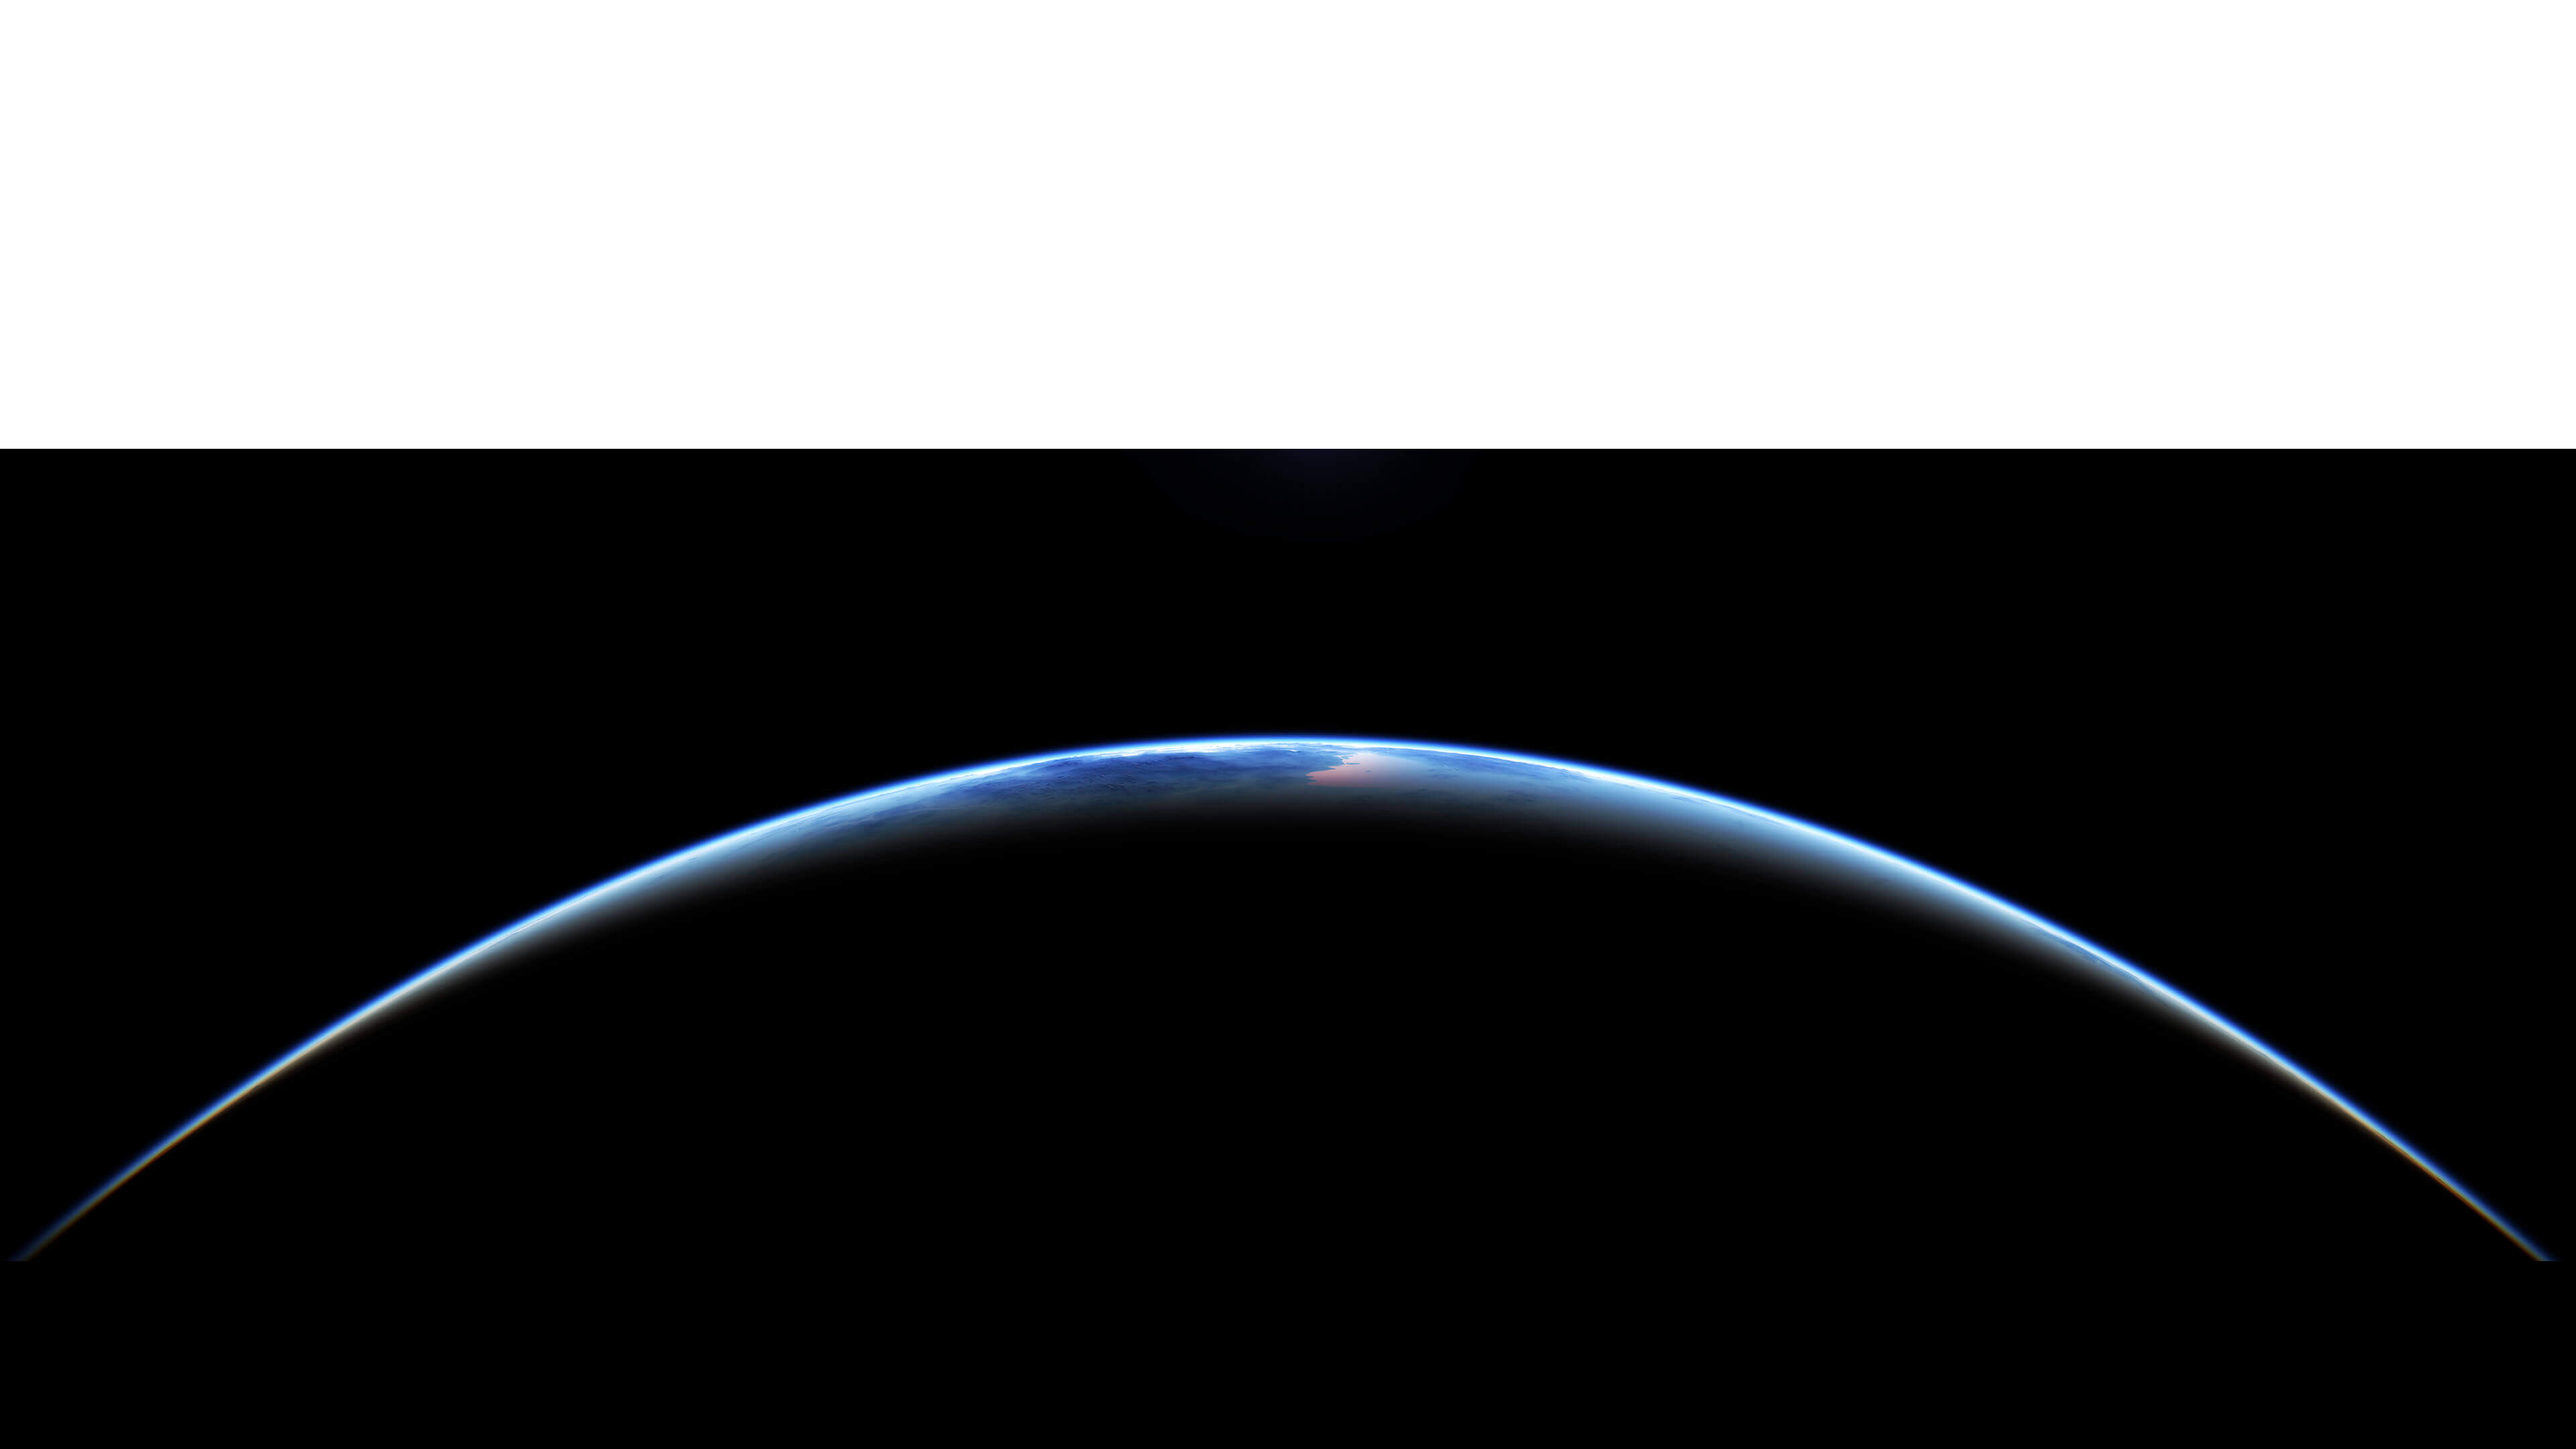
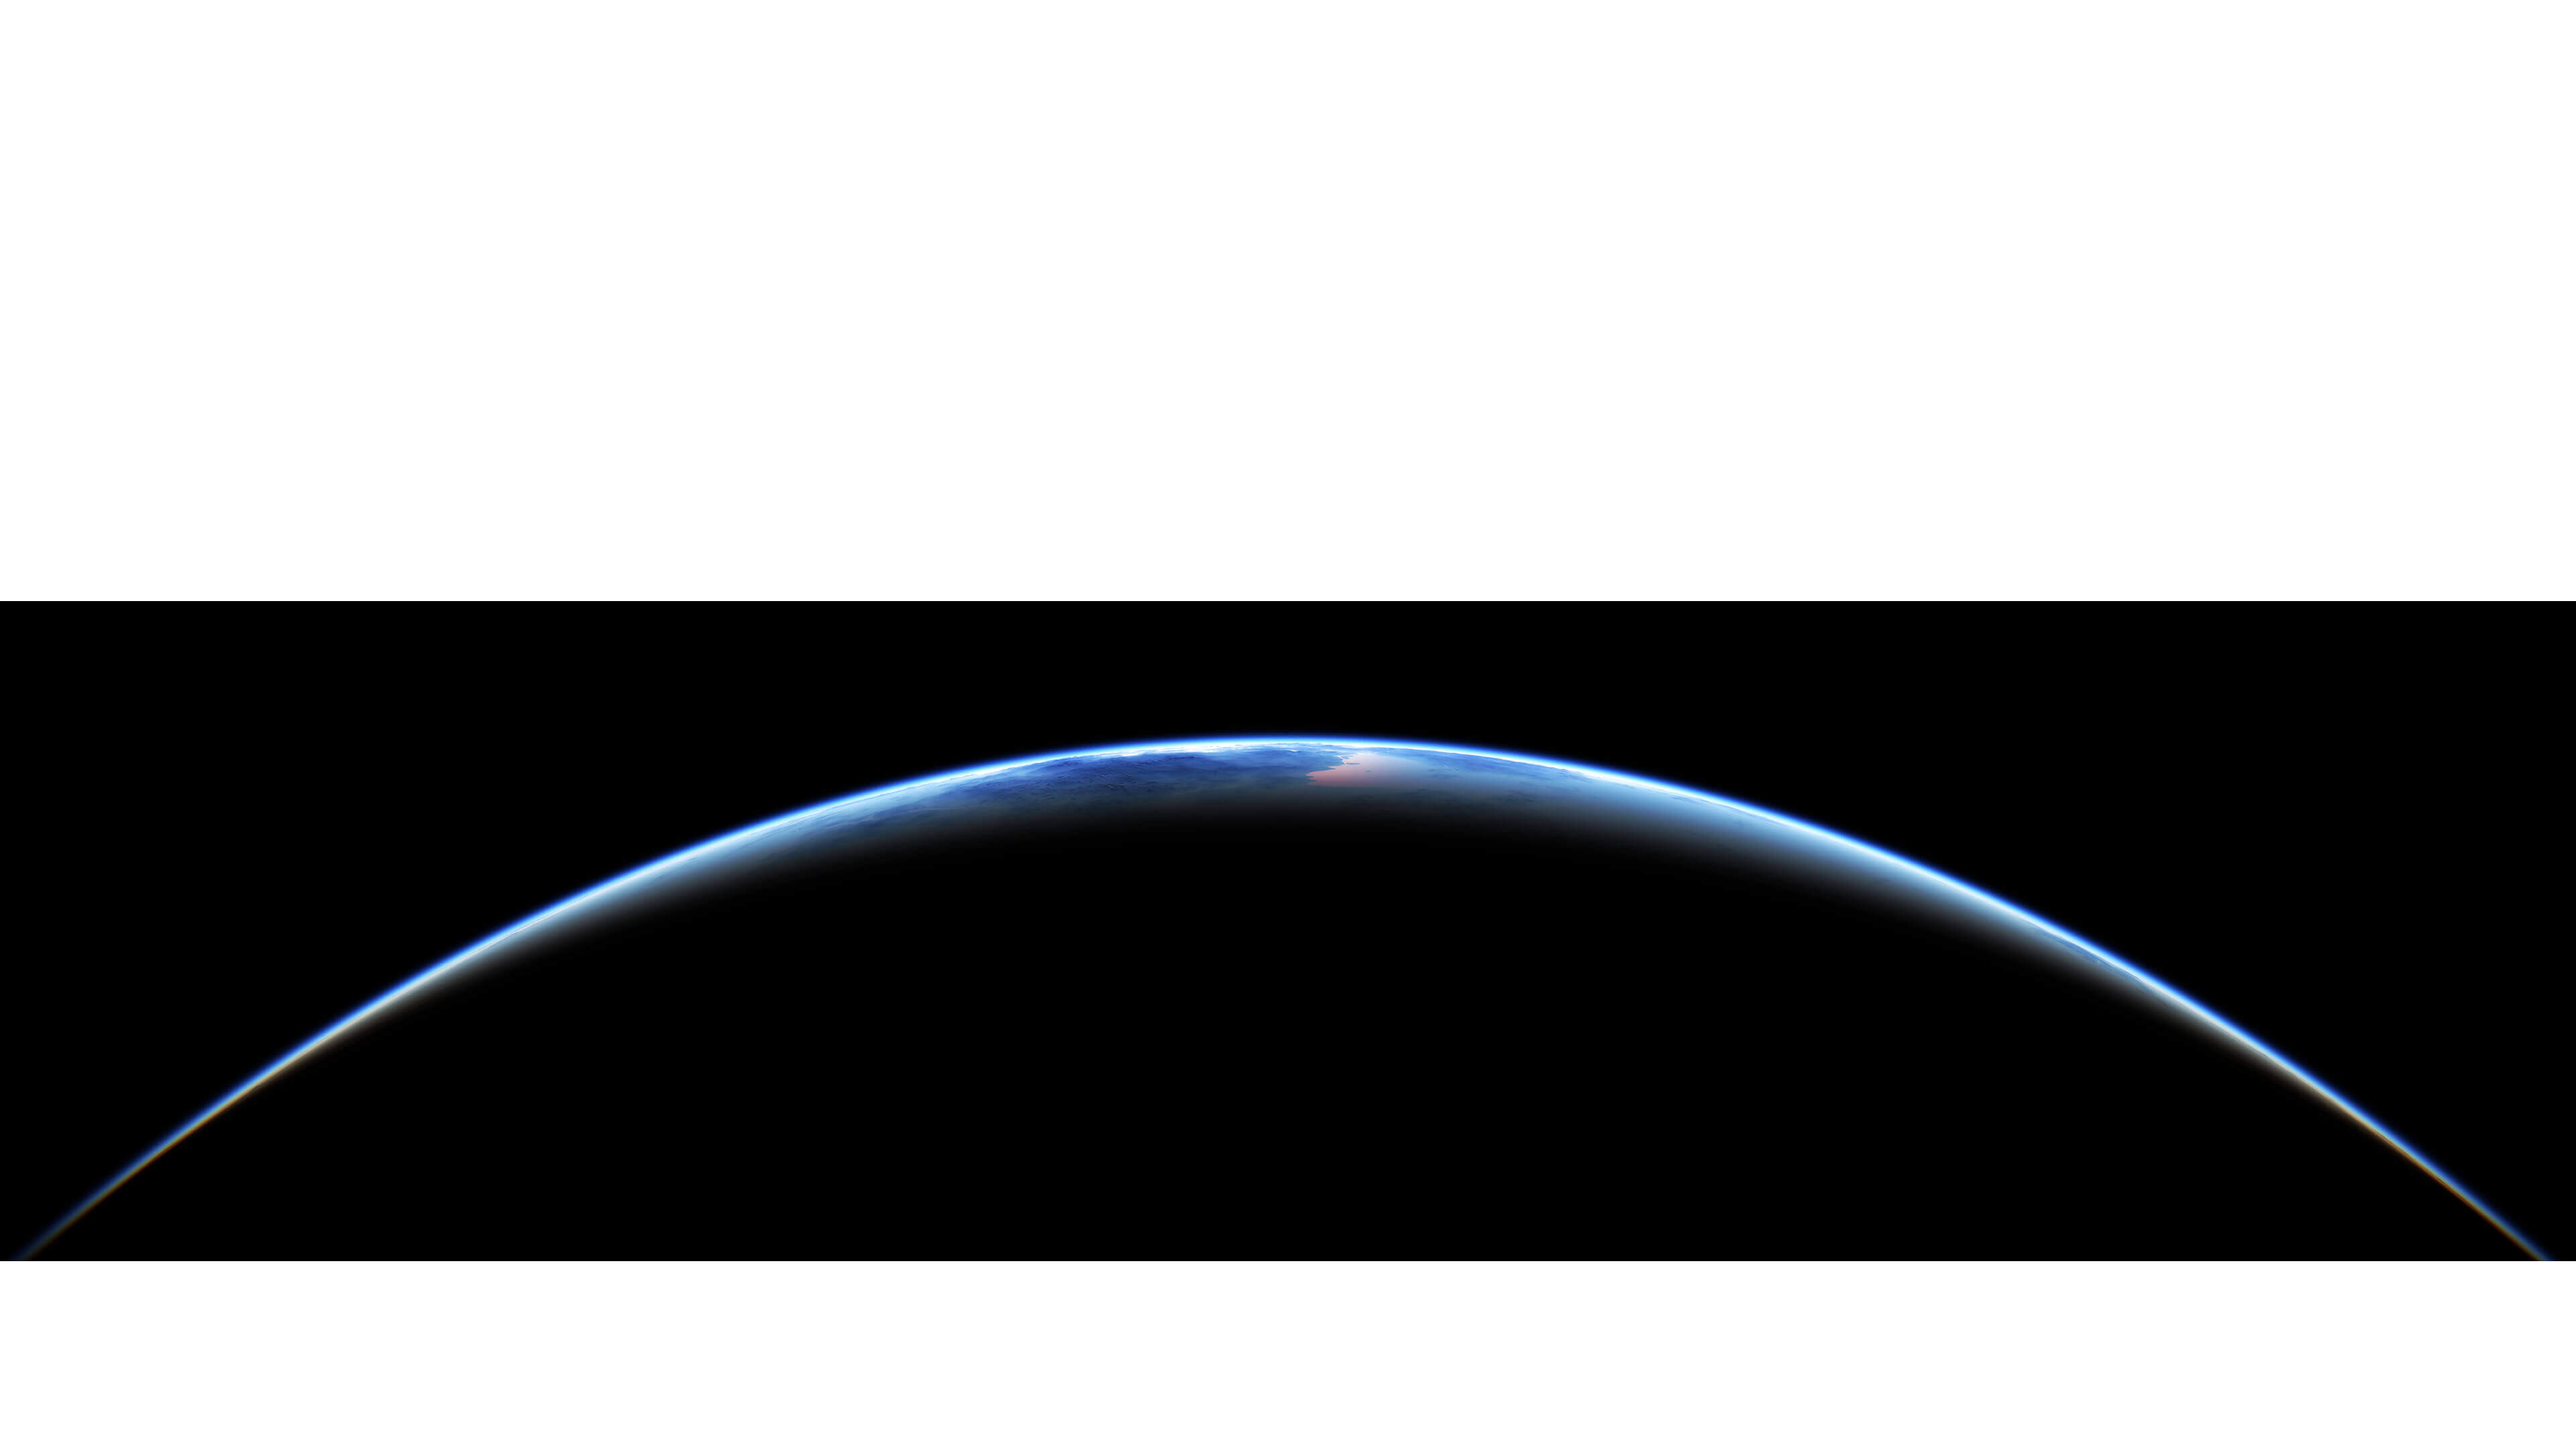
simplified hero component and informatoin comopnent + updated educationContext + updated earth image

Changed region(s): [[0.0, 0.8685, 1.0, 1.0], [0.0, 0.3102, 1.0, 0.4343]]

diff --git a/src/app/components/Information.tsx b/src/app/components/Information.tsx
@@ -1,122 +1,25 @@
 import React, { useEffect } from "react";
 import useEducation from "@/context/educationContext";
-import { informationByLevel } from "@/data";
-import { EducationInfo } from "@/data/types";
-import Image from "next/image"; // Import Image from Next.js
-import Xarrow from "react-xarrows"; // Import Xarrow
+
+import Primary from "./Information/Primary";
+import UpperSecondary from "./Information/UpperSecondary";
+import LowerSecondary from "./Information/LowerSecondary";
 
 const Information = () => {
   const { educationLevel, setEducationLevel } = useEducation();
 
-  const removeSpaces = (str: string) => {
-    return str.replace(/\s+/g, "");
-  };
-
-  const addSpaces = (str: string): string => {
-    return str.replace(/([a-z])([A-Z])/g, "$1 $2");
-  };
-
   useEffect(() => {
-    setEducationLevel(removeSpaces(educationLevel));
+    setEducationLevel(educationLevel);
   }, [educationLevel, setEducationLevel]);
 
-  const selectedInfo: EducationInfo | undefined =
-    informationByLevel[educationLevel] || undefined;
-
   return (
-    <div className="w-full h-full flex flex-col justify-center items-center mt-72">
-      {educationLevel ? (
-        <>
-          <h2 className="text-3xl font-bold flex-col flex justify-center items-center">
-            <span className="block">For {addSpaces(educationLevel)}</span>
-            <span className="block">Students</span>
-          </h2>
-          <div className="w-full flex justify-center items-center mt-4 flex-row gap-10 p-10 max-w-[1000px]">
-            <div
-              id="box1"
-              className="shadow-2xl shadow-zinc-700 rounded-xl text-sm p-8 flex flex-col gap-4 bg-zinc-900"
-            >
-              <p className="font-medium">{selectedInfo?.info1}</p>
-              <p className="font-light">
-                Lorem ipsum dolor sit amet consectetur adipisicing elit. Maxime
-                mollitia, molestiae quas vel sint commodi repudiandae
-                consequuntur voluptatum laborum numquam blanditiis harum
-                quisquam eius sed odit fugiat iusto fuga praesentium optio,
-                eaque rerum!
-              </p>
-            </div>
-            {selectedInfo?.firstimage && (
-              <Image
-                src={selectedInfo.firstimage.src}
-                alt="First Image"
-                width={300}
-                height={300}
-              />
-            )}
-          </div>
-          <div className="w-3/4 mx-auto flex justify-center mt-4 items-center flex-row gap-10 px-10 max-w-[750px]">
-            <div
-              id="box2"
-              className="shadow-2xl shadow-zinc-700 rounded-xl text-sm p-8 flex bg-zinc-900 flex-col gap-4"
-            >
-              <p className="font-medium">{selectedInfo?.info2}</p>
-              <p className="font-light">
-                Lorem ipsum dolor sit amet consectetur adipisicing elit. Maxime
-                mollitia, molestiae quas vel sint commodi repudiandae
-                consequuntur voluptatum laborum numquam blanditiis harum
-                quisquam eius sed odit fugiat iusto fuga praesentium optio,
-                eaque rerum!
-              </p>
-            </div>
-          </div>
-          <div className="w-full flex justify-center items-center mt-4 flex-row gap-10 p-10 max-w-[1000px]">
-            {selectedInfo?.secondimage && (
-              <Image
-                src={selectedInfo.secondimage.src}
-                alt="Second Image"
-                width={300}
-                height={300}
-              />
-            )}
-            <div
-              id="box3"
-              className="shadow-2xl shadow-zinc-700 rounded-xl text-sm p-8 flex bg-zinc-900 flex-col gap-4"
-            >
-              <p className="font-medium">{selectedInfo?.info3}</p>
-              <p className="font-light">
-                Lorem ipsum dolor sit amet consectetur adipisicing elit. Maxime
-                mollitia, molestiae quas vel sint commodi repudiandae
-                consequuntur voluptatum laborum numquam blanditiis harum
-                quisquam eius sed odit fugiat iusto fuga praesentium optio,
-                eaque rerum!
-              </p>
-            </div>
-          </div>
-          <p>{selectedInfo?.joke}</p>
-          {selectedInfo?.video && (
-            <video controls>
-              <source src={selectedInfo.video} type="video/mp4" />
-              Your browser does not support the video tag.
-            </video>
-          )}
+    <div className="w-full h-full flex flex-col justify-center items-center mt-80">
+      {educationLevel === "Primary" && <Primary />}
+      {educationLevel === "Upper Secondary" && <UpperSecondary />}
+      {educationLevel === "Lower Secondary" && <LowerSecondary />}
 
-          <Xarrow
-            start="box1"
-            end="box2"
-            color="#666666" // Set the color of the arrow
-            strokeWidth={2} // Set the thickness of the arrow
-            headSize={0} // Set the size of the arrowhead
-          />
-          <Xarrow
-            start="box2"
-            end="box3"
-            color="#666666" // You can set different colors for different arrows
-            strokeWidth={2}
-            headSize={0}
-          />
-        </>
-      ) : (
-        <p>No education level selected. Please select an education level.</p>
+      {!educationLevel && (
+        <p>Click on the &apos;see material&apos; to start learning!</p>
       )}
     </div>
   );

diff --git a/src/app/components/Hero.tsx b/src/app/components/Hero.tsx
@@ -8,7 +8,7 @@ const Hero = () => {
   const { setEducationLevel } = useEducation();
 
   return (
-    <div className="flex relative flex-col w-full h-full justify-center items-center scrollbar-hide">
+    <div className="flex relative flex-col w-full h-full justify-center items-center">
       <BackgroundBeams className="absolute top-0 -z-10" />
       <div className="text-4xl md:text-5xl lg:text-6xl text-center flex justify-center items-center flex-col font-extrabold mt-32 md:mt-40 lg:mt-52">
         <span className="block">Exploring</span>
@@ -31,7 +31,7 @@ const Hero = () => {
             </ul>
           </div>
           <button
-            className="bg-black border border-zinc-500 hover:scale-105 scale-100 smooth-animation rounded-xl px-5 py-3 text-sm font-light"
+            className="bg-black border-2 border-zinc-500 hover:scale-105 scale-100 smooth-animation rounded-xl px-5 py-3 text-sm font-medium"
             onClick={() => setEducationLevel("Primary")}
           >
             See material
@@ -55,7 +55,7 @@ const Hero = () => {
             </ul>
           </div>
           <button
-            className="bg-black border border-zinc-500 hover:scale-105 scale-100 smooth-animation rounded-xl px-5 py-3 text-sm font-light"
+            className="bg-black border-2 border-zinc-500 hover:scale-105 scale-100 smooth-animation rounded-xl px-5 py-3 text-sm font-medium"
             onClick={() => setEducationLevel("Lower Secondary")}
           >
             See material
@@ -80,7 +80,7 @@ const Hero = () => {
             </ul>
           </div>
           <button
-            className="bg-black border border-zinc-500 hover:scale-105 scale-100 smooth-animation rounded-xl px-5 py-3 text-sm font-light"
+            className="bg-black border-2 border-zinc-500 hover:scale-105 scale-100 smooth-animation rounded-xl px-5 py-3 text-sm font-medium"
             onClick={() => setEducationLevel("Upper Secondary")}
           >
             See material
@@ -90,7 +90,7 @@ const Hero = () => {
       <Image
         src={earth}
         alt="earth"
-        className="w-full h-full object-cover absolute top-[30vh] -z-[5] mr-4 mt-24"
+        className="w-[100vw] h-auto object-cover absolute top-96 left-0 -z-20"
       />
     </div>
   );

diff --git a/src/app/components/Information/Primary.tsx b/src/app/components/Information/Primary.tsx
@@ -1,0 +1,14 @@
+import React from "react";
+
+const Primary = () => {
+  return (
+    <div className="w-full h-full flex flex-col justify-center items-center">
+      <h2 className="text-3xl font-bold flex-col flex justify-center items-center">
+        <span className="block">For Primary</span>
+        <span className="block">Students</span>
+      </h2>
+    </div>
+  );
+};
+
+export default Primary;

diff --git a/src/context/educationContext.tsx b/src/context/educationContext.tsx
@@ -14,7 +14,7 @@ export const EducationProvider = ({
 }: {
   children: React.ReactNode;
 }) => {
-  const [educationLevel, setEducationLevel] = useState<string>("primary");
+  const [educationLevel, setEducationLevel] = useState<string>("");
 
   return (
     <EducationContext.Provider value={{ educationLevel, setEducationLevel }}>

diff --git a/src/app/page.tsx b/src/app/page.tsx
@@ -10,8 +10,10 @@ const Home = () => {
   return (
     <Suspense fallback={<Loader />}>
       <EducationProvider>
-        <Hero />
-        <Information />
+        <div className="w-full h-full scrollbar-hide">
+          <Hero />
+          <Information />
+        </div>
       </EducationProvider>
     </Suspense>
   );

diff --git a/src/app/components/Information/LowerSecondary.tsx b/src/app/components/Information/LowerSecondary.tsx
@@ -1,0 +1,7 @@
+import React from "react";
+
+const LowerSecondary = () => {
+  return <div>LowerSecondary</div>;
+};
+
+export default LowerSecondary;

diff --git a/src/app/components/Information/UpperSecondary.tsx b/src/app/components/Information/UpperSecondary.tsx
@@ -1,0 +1,7 @@
+import React from "react";
+
+const UpperSecondary = () => {
+  return <div>UpperSecondary</div>;
+};
+
+export default UpperSecondary;
